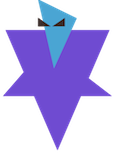
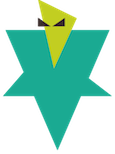
CHange 2 aliens and resize modifiers bar

diff --git a/js/script.js b/js/script.js
@@ -37,7 +37,7 @@ var counterBar;
 
 // Modifiers Bar
 var modifiersBarWidth = 80;
-var modifiersBarHeight = 320;
+var modifiersBarHeight = 262;
 var modifiersMaxNumber = 5;
 var modifiersBtns = [];
 var modifiersBar;
